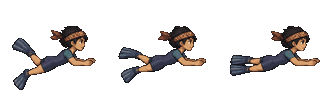
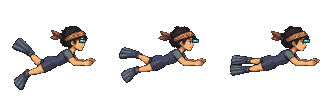
Refine underwater pixel art and ocean readability

diff --git a/tools/player-swim/build_swim_atlas.py b/tools/player-swim/build_swim_atlas.py
@@ -4,7 +4,7 @@ from pathlib import Path
 import hashlib
 import json
 
-from PIL import Image
+from PIL import Image, ImageDraw, ImageEnhance
 
 
 ROOT = Path(__file__).resolve().parents[2]
@@ -12,6 +12,63 @@ SOURCE = ROOT / "client-godot/resources/art"
 DEST = SOURCE / "player-swim-v2"
 APPEARANCES = ("male-default", "female-default", "male-nusantara", "female-nusantara")
 CELL = 112
+PALETTE_COLORS = 28
+
+
+def _visor(frame: Image.Image, name: str, pose: int) -> None:
+    """Draw a small, readable diving mask on the original face pixels."""
+    # These anchors were measured from the four source portraits at 112 px.
+    anchors = {
+        "male-nusantara": (78, 39),
+        "female-nusantara": (79, 39),
+        "male-default": (78, 39),
+        "female-default": (79, 39),
+    }
+    x, y = anchors[name]
+    # The head shifts by at most a pixel among the three source swim poses.
+    x += (0, 1, 0)[pose]
+    draw = ImageDraw.Draw(frame)
+    ink = (24, 42, 49, 255)
+    copper = (172, 107, 61, 255)
+    glass = (54, 170, 181, 255)
+    shine = (167, 240, 221, 255)
+    draw.line((x - 3, y + 1, x - 1, y + 1), fill=copper, width=1)
+    draw.rectangle((x, y, x + 6, y + 3), fill=ink)
+    draw.rectangle((x + 1, y + 1, x + 5, y + 2), fill=glass)
+    draw.line((x + 2, y + 1, x + 3, y + 1), fill=shine, width=1)
+    draw.point((x + 6, y + 3), fill=copper)
+
+
+def _largest_silhouette(frame: Image.Image) -> Image.Image:
+    """Discard isolated upscaling specks without eroding the character."""
+    alpha = frame.getchannel("A")
+    pixels = alpha.load()
+    seen = set()
+    components = []
+    for y in range(CELL):
+        for x in range(CELL):
+            if pixels[x, y] == 0 or (x, y) in seen:
+                continue
+            component = set()
+            queue = [(x, y)]
+            seen.add((x, y))
+            while queue:
+                cx, cy = queue.pop()
+                component.add((cx, cy))
+                for nx, ny in ((cx - 1, cy), (cx + 1, cy), (cx, cy - 1), (cx, cy + 1)):
+                    if 0 <= nx < CELL and 0 <= ny < CELL and pixels[nx, ny] and (nx, ny) not in seen:
+                        seen.add((nx, ny))
+                        queue.append((nx, ny))
+            components.append(component)
+    if not components:
+        return frame
+    keep = max(components, key=len)
+    for y in range(CELL):
+        for x in range(CELL):
+            if (x, y) not in keep:
+                pixels[x, y] = 0
+    frame.putalpha(alpha)
+    return frame
 
 
 def digest(path: Path) -> str:
@@ -23,14 +80,25 @@ def build_one(name: str) -> dict[str, str]:
     original = Image.open(source).convert("RGBA")
     width = original.width // 3
     height = original.height // 3
-    strip = Image.new("RGBA", (CELL * 3, CELL))
+    frames = []
     for pose in range(3):
         crop = original.crop((pose * width, height, (pose + 1) * width, height * 2))
-        strip.paste(crop.resize((CELL, CELL), Image.Resampling.LANCZOS), (pose * CELL, 0))
-    alpha = strip.getchannel("A").point(lambda value: 255 if value >= 128 else 0)
-    # One shared palette keeps adjacent poses from changing color during a kick.
-    strip = strip.convert("RGB").quantize(colors=64, dither=Image.Dither.NONE).convert("RGBA")
-    strip.putalpha(alpha)
+        frames.append(crop.resize((CELL, CELL), Image.Resampling.LANCZOS))
+    combined = Image.new("RGBA", (CELL * 3, CELL))
+    for pose, frame in enumerate(frames):
+        combined.paste(frame, (pose * CELL, 0))
+    # A single compact palette prevents shirt/skin colors from shifting per pose.
+    rgb = ImageEnhance.Contrast(combined.convert("RGB")).enhance(1.13)
+    rgb = rgb.quantize(colors=PALETTE_COLORS, dither=Image.Dither.NONE).convert("RGBA")
+    strip = Image.new("RGBA", (CELL * 3, CELL))
+    for pose, frame in enumerate(frames):
+        pixel = rgb.crop((pose * CELL, 0, (pose + 1) * CELL, CELL))
+        alpha = frame.getchannel("A").point(lambda value: 255 if value >= 175 else 0)
+        alpha.paste(0, (0, 0, CELL, 3))
+        pixel.putalpha(alpha)
+        pixel = _largest_silhouette(pixel)
+        _visor(pixel, name, pose)
+        strip.paste(pixel, (pose * CELL, 0))
     destination = DEST / f"{name}.png"
     strip.save(destination, optimize=True)
     return {"source": str(source.relative_to(ROOT)), "sourceSha256": digest(source),
@@ -40,8 +108,10 @@ def build_one(name: str) -> dict[str, str]:
 def main() -> None:
     DEST.mkdir(parents=True, exist_ok=True)
     entries = {name: build_one(name) for name in APPEARANCES}
-    (DEST / "provenance.json").write_text(json.dumps({"kind": "project-source-downsample", "cell": CELL,
-        "paletteColors": 64, "frames": 3, "entries": entries}, indent=2) + "\n")
+    (DEST / "provenance.json").write_text(json.dumps({"kind": "project-source-pixel-cleanup", "cell": CELL,
+        "paletteColors": PALETTE_COLORS, "alphaThreshold": 175,
+        "artwork": "code-drawn diving visor; source silhouette retained",
+        "frames": 3, "entries": entries}, indent=2) + "\n")
 
 
 if __name__ == "__main__":

diff --git a/tools/player-swim/test_swim_atlas.py b/tools/player-swim/test_swim_atlas.py
@@ -1,0 +1,35 @@
+"""Validate the pixel contract of the four generated swim strips."""
+
+from pathlib import Path
+import json
+import unittest
+
+from PIL import Image
+
+from build_swim_atlas import APPEARANCES, CELL, DEST, ROOT, digest
+
+
+class SwimAtlasTest(unittest.TestCase):
+    def test_generated_strips(self) -> None:
+        provenance = json.loads((DEST / "provenance.json").read_text())
+        self.assertEqual(set(provenance["entries"]), set(APPEARANCES))
+        for name, entry in provenance["entries"].items():
+            source = ROOT / entry["source"]
+            output = ROOT / entry["output"]
+            self.assertEqual(digest(source), entry["sourceSha256"])
+            self.assertEqual(digest(output), entry["outputSha256"])
+            image = Image.open(output).convert("RGBA")
+            self.assertEqual(image.size, (CELL * 3, CELL))
+            for pose in range(3):
+                frame = image.crop((pose * CELL, 0, (pose + 1) * CELL, CELL))
+                self.assertEqual(set(frame.getchannel("A").getdata()), {0, 255})
+                self.assertFalse(frame.crop((0, 0, CELL, 3)).getbbox())
+                self.assertGreater(frame.getchannel("A").getbbox()[2], 90)
+                # The mask is part of the sprite, so every appearance keeps a
+                # cyan focal detail even when detachable gear is hidden.
+                self.assertTrue(any(r < 100 and g > 130 and b > 130 and a == 255
+                                    for r, g, b, a in frame.getdata()))
+
+
+if __name__ == "__main__":
+    unittest.main()

diff --git a/docs/reviews/pixel-visual-refinement-2026-11-15.md b/docs/reviews/pixel-visual-refinement-2026-11-15.md
@@ -1,0 +1,23 @@
+# Pixel visual refinement: underwater character and reef
+
+The owner asked to bring the game closer to the colorful, comfortable pixel-art moodboard after the first swim/reaction release. The earlier 112-pixel swim strips mixed soft illustration edges into small game pixels, and the oxygen cylinder was barely legible behind the swimmer. This package keeps the existing source portraits and gameplay contract while changing their pixel treatment and the visibility of the existing ocean backdrop.
+
+## Changes
+
+- Regenerated all four three-pose swim strips from the same project portraits with one 28-color palette per appearance, firmer binary alpha and removal of isolated upscaling specks. A small cyan diving visor is drawn at each portrait's measured face anchor. The 112×112 frame and frame order are unchanged, so swim cadence, hit and shot timing are unchanged.
+- Shortened and darkened the detachable oxygen cylinder, and positioned it along the swimmer's upper back where it remains visible without covering the face or net. The same modular 3D node is retained; this does not bake equipment into the character sprite.
+- Raised contrast and visibility of the three existing ocean parallax layers. Card count, shader operations, parallax factors, lighting controls and reduced-motion behavior are unchanged.
+
+The four original source portraits remain untouched. `tools/player-swim/build_swim_atlas.py` is the reproducible authoring script, and the regenerated `provenance.json` records input/output SHA-256. The 28-color cleanup and visor use Pillow offline; no image-generation service, moodboard art or new runtime dependency was used. Project artwork terms in `LICENSE` section 2 continue to apply. The Xprite Pixelate tool was reviewed as an option but not used because these portraits are painted illustrations, not upscaled pixel-grid art.
+
+## Evidence and acceptance limits
+
+- [Four-appearance contact sheet](../visual/swim-pixel-refinement-20261115.png) shows every generated pose at 2× nearest-neighbor scale.
+- [Native Godot reef capture](../visual/ocean-pixel-refinement-20261115.png) shows the mask, tank, net and three-layer water at 1440×810 on Apple M2/OpenGL. The source fixture also captured both facings, lamp on/off and camera seams in `artifacts/godot/06a-ocean/visual-refinement-review/`.
+- `python3 tools/player-swim/test_swim_atlas.py` passed for all four outputs: frame size, alpha, provenance hashes, clean top gutter and visor detail. The native eight-frame reaction fixture passed; the native six-case ocean fixture passed without changing game resources. Final `npm run check:world` passed with no `SCRIPT ERROR` or Godot `ERROR`; `npm run typecheck` and `npm run build` passed. The first bare `npm test` lacked database services and hit a connection timeout. The isolated fixture-backed rerun passed **123/123** API tests with zero failures. Its temporary MongoDB replica set on port 27019 and Redis on port 6381 were stopped; the owned fixture directory was removed (about 6.4 MiB allocated, 214,867,019 logical file bytes). No owner database or volume was touched.
+
+This is a targeted visual improvement, **not full moodboard parity**. The four source portraits still contain only three authored underwater poses, and the land/sea world art, buildings and all residents have different sources and density. A still image cannot prove animation pacing or performance on Windows and Samsung S23. Review the current underwater player at 844×390 and 667×375 while moving, shooting and taking a hit before accepting the final visual result. Remaining work: source-quality directional swim frames, consistent detail density between character/reef/gear, and device review; do not mass-convert terrain into square tiles or reintroduce rejected resident side views.
+
+## Completion note
+
+Source commit, CI artifact and staging status are pending. The previous staging source remains `abfe2d4`, CI PCK `e7b07bfe1d31`, image `a08ad10df7ed` until a separate release is verified.

diff --git a/docs/agent-handoff.md b/docs/agent-handoff.md
@@ -1,5 +1,9 @@
 # Handoff aktif agent
 
+## Pixel visual refinement candidate, 15 November 2026
+
+The owner asked to bring the graphics closer to the colorful pixel moodboard. A current local source candidate replaces the four soft 64-color swim derivatives with 28-color, clean-alpha, code-visor strips, makes the modular oxygen cylinder readable along the swimmer's back, and strengthens the existing three ocean parallax layers. The [candidate report](reviews/pixel-visual-refinement-2026-11-15.md), [four-appearance contact sheet](visual/swim-pixel-refinement-20261115.png), [native reef capture](visual/ocean-pixel-refinement-20261115.png) and updated [provenance](assets/provenance.md) record actual source and visual scope. The pixel atlas check and native six-case ocean/eight-frame reaction fixtures passed; full checks and release status are in the report when complete. This is a source candidate until exact CI and staging verification. It does not establish moodboard parity or Windows/S23 acceptance. The previous release below remains live until explicitly replaced.
+
 ## Nala swim and combat reactions active on staging, 15 November 2026
 
[1 lines of base64/hex data omitted]

diff --git a/docs/development-status.md b/docs/development-status.md
@@ -1,5 +1,7 @@
 # Status pengembangan
 
+**Pixel visual refinement candidate, 15 November 2026:** Four underwater character strips have been regenerated from project portraits with a smaller shared palette, clean alpha and code-drawn mask. The modular oxygen cylinder is repositioned and the existing ocean layers have clearer contrast. [Visual report](reviews/pixel-visual-refinement-2026-11-15.md) and [native reef evidence](visual/ocean-pixel-refinement-20261115.png) define the scope; this is not yet a claim of complete moodboard parity or physical-device acceptance. The previous `abfe2d4` staging release remains active until a separately verified deployment.
+
 **Nala swim/combat reactions active, 15 November 2026:** Travel-driven three-pose swim, idle hold, shot recoil/muzzle flash, short damage reaction, code-authored net/launcher pixel plates and adaptive touch render quality are active from source `abfe2d4` on all three remotes. [GitHub CI 43695994374](https://github.com/ardianryan/Jalasmara-The-Game/actions/runs/43695994374) passed; CI PCK `e7b07bfe1d31` is active in image `a08ad10df7ed`, backup/restore and public smoke 6/6 passed. [Release report](reviews/nala-swim-combat-reactions-2026-11-15.md), [native motion](visual/swim-v2-motion-20261115.png) and [public startup](visual/swim-v2-staging-ready-20261115.png) distinguish proof. Windows/S23 underwater visual and performance review remains open; source silhouettes are still less detailed than the moodboard, and six children/director retain one-view rigs. The Gito package below is previous release history.
 
 **Gito gait correction active, 15 November 2026:** Gito's pixel-part rig now bends knees through body depth and swings arms in alternating walking phases. Source `3a18ee5` passed local focused/native gait, full world, typecheck, build and 123/123 isolated API tests; [GitHub CI 43690961224](https://github.com/ardianryan/Jalasmara-The-Game/actions/runs/43690961224) passed. CI PCK `9eefa0d0e857` is active on staging in healthy image `fdd65aba4615`; backup/restore and public 6/6 smoke passed with zero fixture residue. [Release report](reviews/gito-gait-depth-bend-2026-11-15.md) and [native/public images](visual/README.md) distinguish visual evidence. Live Windows/S23 acceptance and authored alternate child directions remain open. Earlier staging pins below are history.

diff --git a/tools/player-swim/README.md b/tools/player-swim/README.md
@@ -1,5 +1,5 @@
 # Swim pose authoring
 
-`python3 tools/player-swim/build_swim_atlas.py` rebuilds four compact swim strips from the project's existing modular base portraits. It selects the three distinct poses in row two, downsamples each 418 px source cell to 112 px, applies one 64-color palette across the strip, and writes a source/output SHA-256 manifest beside the PNGs. Pillow is an offline authoring dependency; Godot loads only the generated PNGs.
+`python3 tools/player-swim/build_swim_atlas.py` rebuilds four compact swim strips from the project's existing modular base portraits. It selects the three distinct poses in row two, downsamples each 418 px source cell to 112 px, applies one 28-color palette across the strip, removes isolated edge specks, and draws a seven-pixel-wide cyan diving visor at reviewed face anchors. The generator writes a source/output SHA-256 manifest beside the PNGs. Pillow is an offline authoring dependency; Godot loads only the generated PNGs. Run `python3 tools/player-swim/test_swim_atlas.py` to check the alpha, frame and provenance contract.
 
-The animation phase is driven by actual swim displacement in `CharacterVisual.gd`. The source has only three different poses, so this is a cadence and pixel-grid cleanup, not newly drawn eight-way underwater character art. Keep the original `*-base-v1.png` sources; the generated strips inherit the project's artwork terms. Review the strip at 1:1 and a native gameplay capture before accepting a regenerated atlas.
+The animation phase is driven by actual swim displacement in `CharacterVisual.gd`. The source has only three different poses, so this is a cadence and pixel-grid cleanup, not newly drawn eight-way underwater character art. Keep the original `*-base-v1.png` sources; the generated strips inherit the project's artwork terms. Review the strip at 1:1 and a native gameplay capture before accepting a regenerated atlas. The face anchors are authored for these four exact portraits; revise them if the source poses change.

diff --git a/docs/art-direction-comfy.md b/docs/art-direction-comfy.md
@@ -2,7 +2,7 @@
 
 ## Character motion authoring, 14 November 2026
 
-Character walk, swim, gesture and cutscene poses should be authored as controlled pixel frames or lightweight code-driven transforms of existing parts. Draw and inspect the moving silhouette frame by frame at the actual game scale; keep feet, hands, equipment sockets and loop transitions stable. Retain editable source, frame timing, provenance and license for every changed atlas, and compare runtime memory/frame pacing before release. Do not use an indiscriminately generated character sheet as a finished animation. Procedural environmental motion may use bounded shaders or transforms and must respect reduced-motion mode. This direction follows the owner's explicit preference for animation that remains light and easy to edit.
+Character walk, swim, gesture and cutscene poses should be authored as controlled pixel frames or lightweight code-driven transforms of existing parts. Draw and inspect the moving silhouette frame by frame at the actual game scale; keep feet, hands, equipment sockets and loop transitions stable. Retain editable source, frame timing, provenance and license for every changed atlas, and compare runtime memory/frame pacing before release. Do not use an indiscriminately generated character sheet as a finished animation. Procedural environmental motion may use bounded shaders or transforms and must respect reduced-motion mode. This direction follows the owner's explicit preference for animation that remains light and easy to edit. The [15 November underwater refinement](reviews/pixel-visual-refinement-2026-11-15.md) is a narrow example: source-matched palette cleanup, pixel-drawn visor and clearer gear/reef layering; it is not a replacement for new authored poses or the rest of the world's art pass.
 
 ## Graphics clarity candidate, 14 November 2026
 

diff --git a/docs/assets/provenance.md b/docs/assets/provenance.md
@@ -110,3 +110,5 @@ The same generator and original source now produce a 12-frame 224×160 transpare
 ## Compact Nala swim atlas — 15 November 2026
 
 `tools/player-swim/build_swim_atlas.py` derives the four `resources/art/player-swim-v2/*.png` strips from the project's four `*-base-v1.png` portraits. The generator keeps the three unique underwater poses, resizes each to 112×112 px, uses one 64-color palette per appearance, and thresholds alpha at 50%. `resources/art/player-swim-v2/provenance.json` records exact source and output SHA-256 hashes. The original portraits remain available and the derived strips retain their project artwork terms. No third-party game art, moodboard image, paid sprite service or AI image generation was used. The copper/teal net and capsule launcher pixel details added in `CharacterEquipment3D.gd` are also original code-authored pixels, not an imported icon pack. [Contact sheet](../visual/swim-v2-source-contact-20261115.png) and [native scene](../visual/swim-v2-native-reef-20261115.png) show the actual output; neither establishes physical-device frame pacing.
+
+The 15 November visual refinement regenerates the same four strips with a shared 28-color palette, firmer binary alpha, isolated-speck cleanup, and a small cyan diving visor drawn by code at source-specific face anchors. The current `provenance.json` hashes identify these regenerated outputs. The source portraits and project artwork license are unchanged; Pillow remains an offline authoring tool. The historical contact sheet above shows the earlier 64-color output; see the newer visual-refinement report and contact sheet for the current one.

diff --git a/docs/visual/README.md b/docs/visual/README.md
@@ -1,5 +1,15 @@
 # Jalasmara visual evidence
 
+## Underwater pixel refinement candidate, 15 November 2026
+
+![Four appearances with three regenerated swim poses each.](swim-pixel-refinement-20261115.png)
+
[1 lines of base64/hex data omitted]
+
+![Native Godot reef with Nala, modular oxygen cylinder, jala and clearer parallax.](ocean-pixel-refinement-20261115.png)
+
[1 lines of base64/hex data omitted]
+
 ## Nala underwater motion and staging, 15 November 2026
 
 ![Eight native Godot frames of Nala idling, kicking, shooting, taking damage and recovering.](swim-v2-motion-20261115.png)
